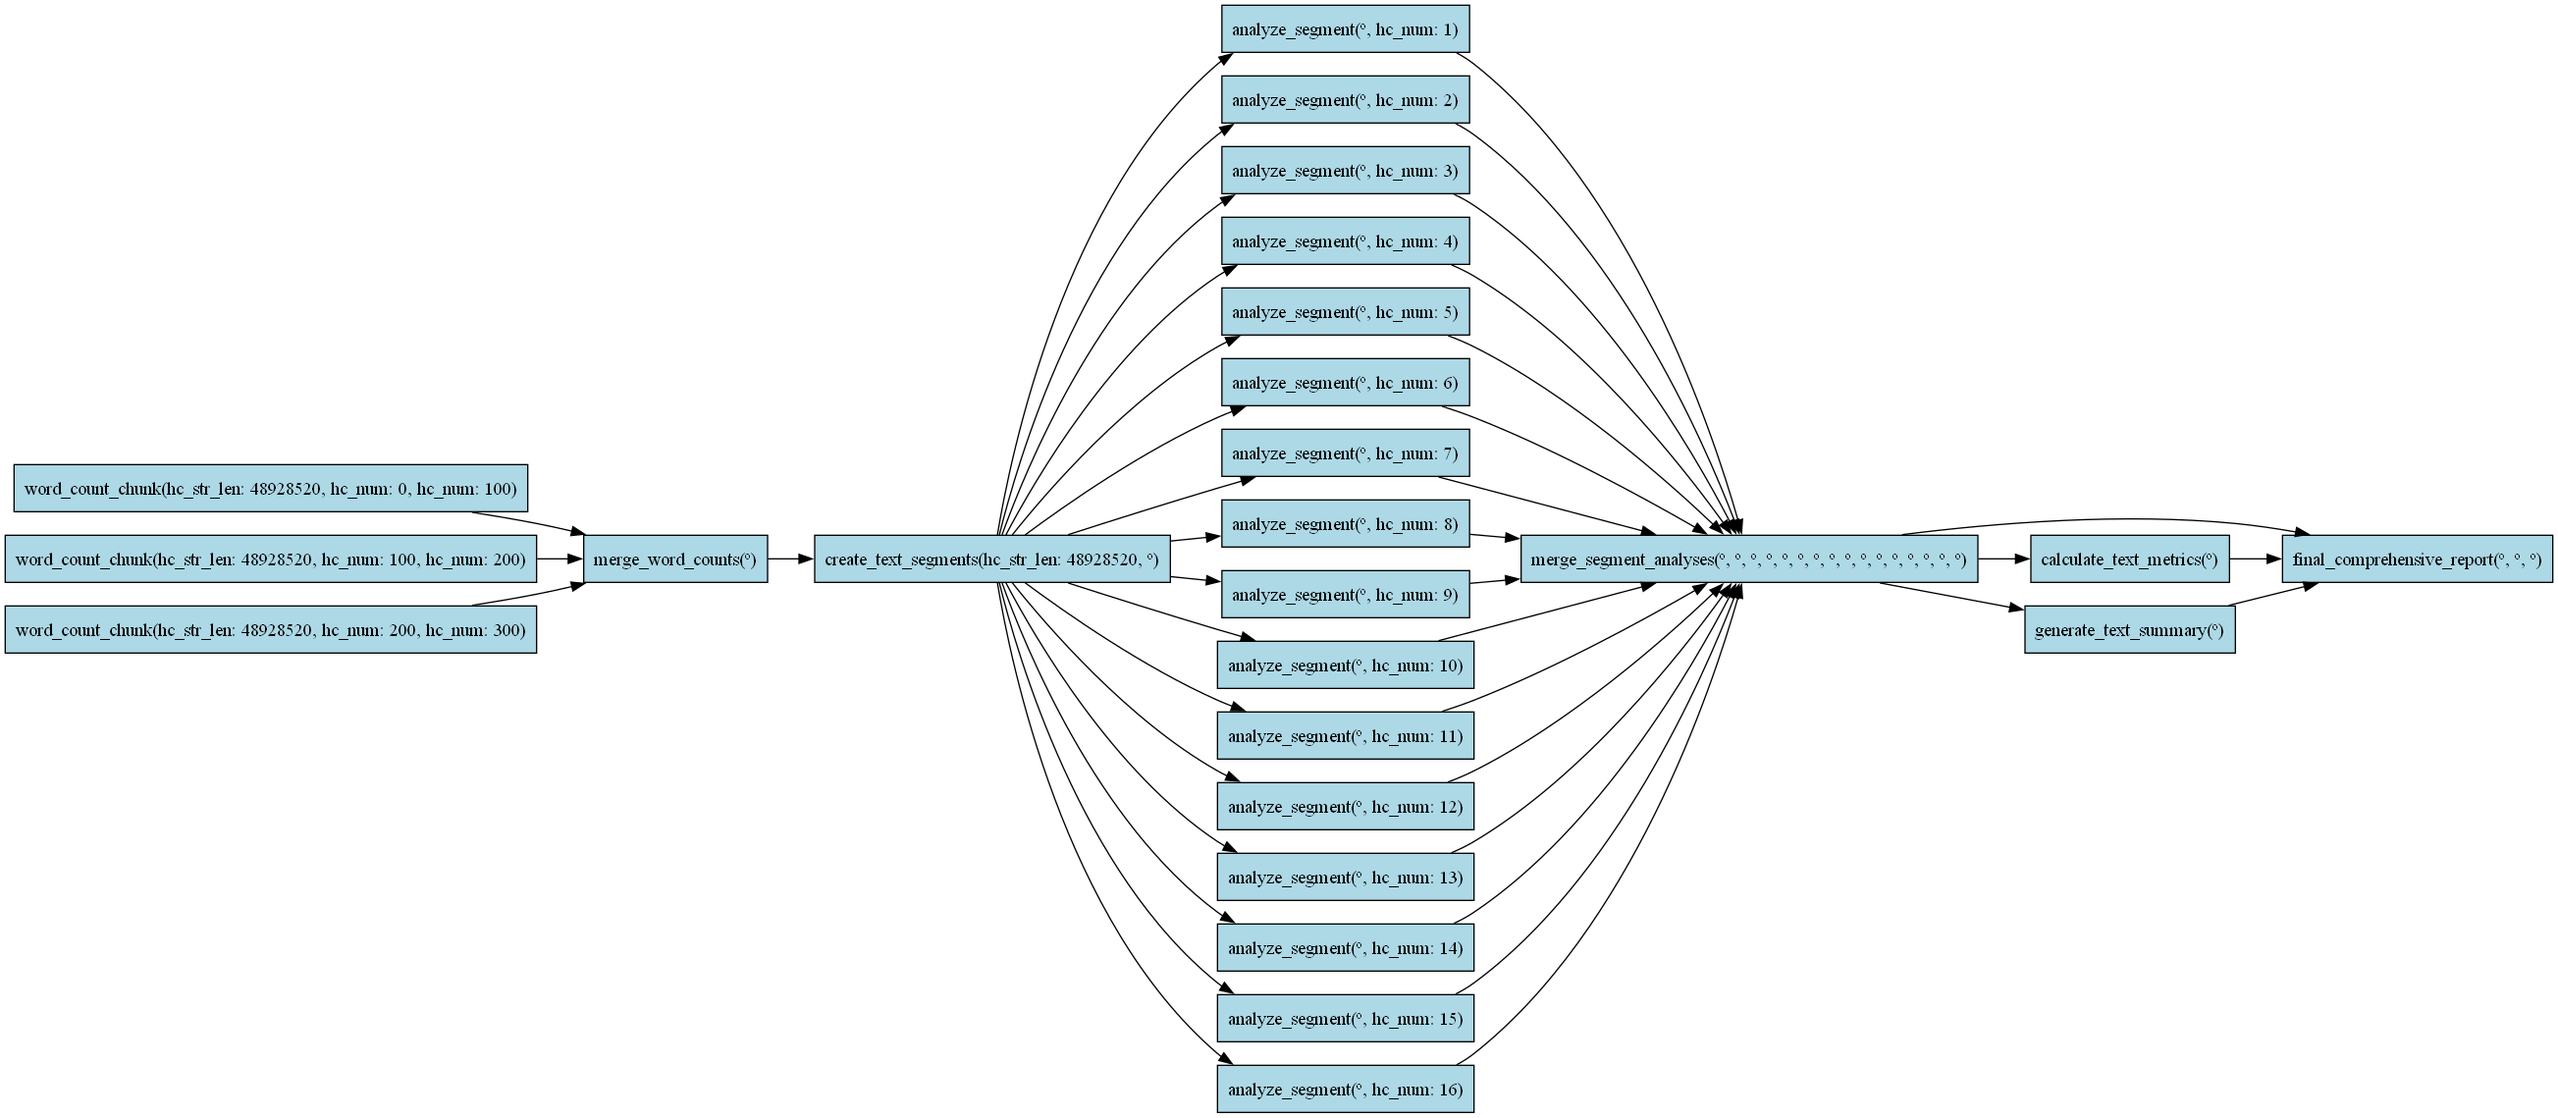
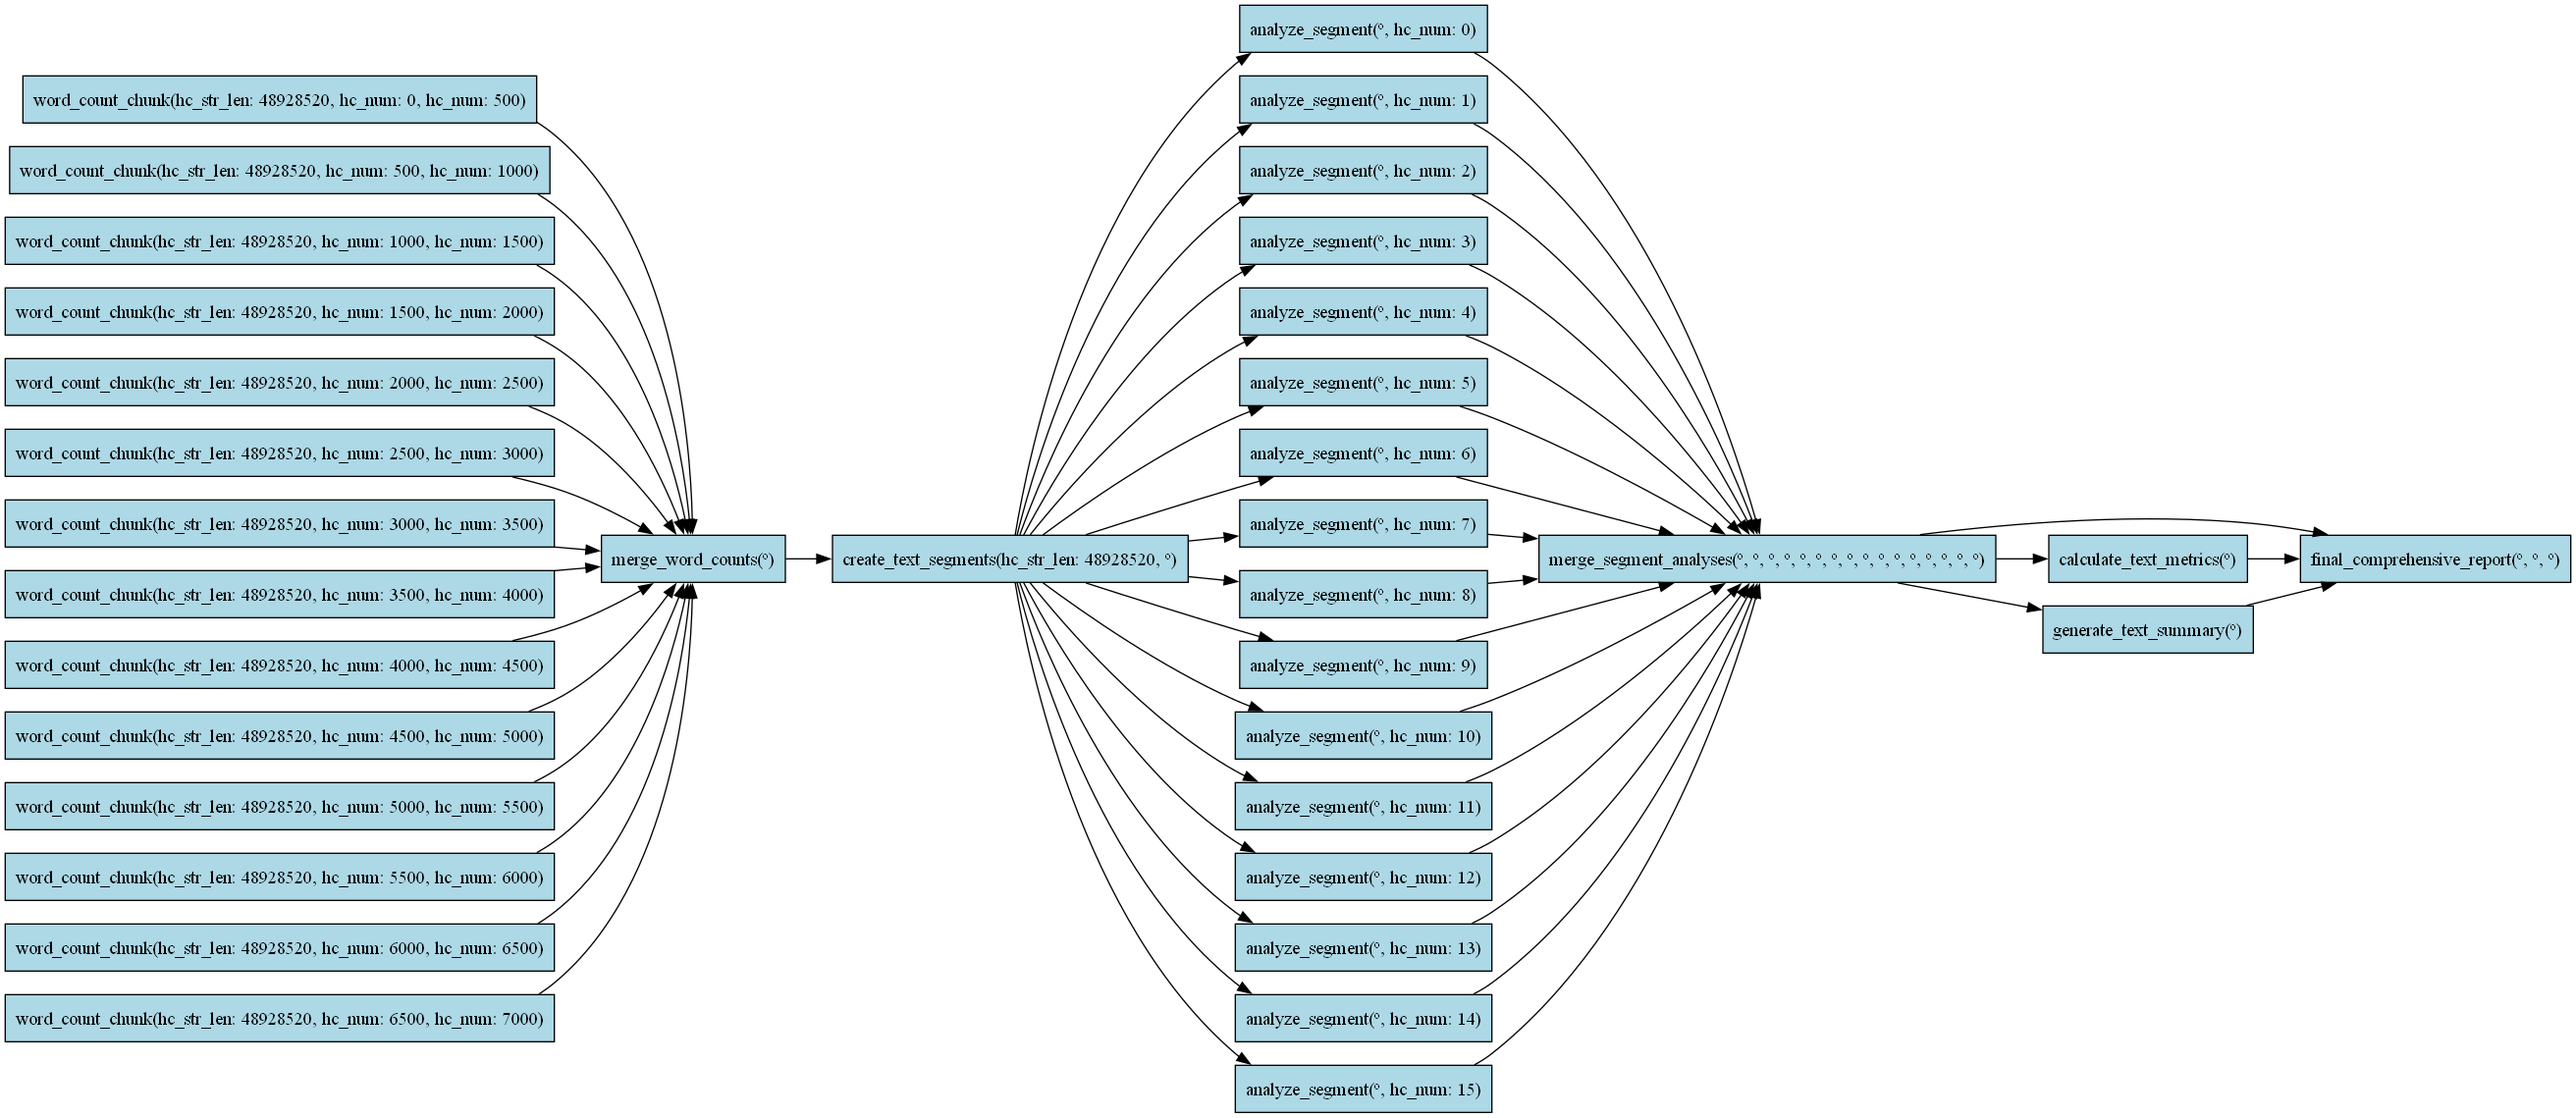
update text analysis workflow

Changed region(s): [[0.0, 0.0, 0.9635, 1.0], [0.7771, 0.5531, 0.8703, 0.5838]]

diff --git a/_examples/original/text_analysis.py b/_examples/original/text_analysis.py
@@ -1,7 +1,6 @@
 import os
 import sys
 import time
-from collections import Counter
 from typing import List, Dict, Any
 
 # Add parent directory to path
@@ -32,22 +31,22 @@ def merge_word_counts(counts: List[int]) -> int:
 # --- Single processing task that creates intermediate result ---
 
 @DAGTask
-def create_text_segments(text: str, total_word_count: int) -> Dict[str, str]:
+def create_text_segments(text: str, total_word_count: int) -> List[str]:
     """Create 16 text segments for further analysis"""
     words = text.split()
     segment_size = len(words) // 16
-    
-    segments = {}
+
+    segments = []
     for i in range(16):
         start_idx = i * segment_size
         end_idx = len(words) if i == 15 else (i + 1) * segment_size
-        segments[f"segment_{i+1}"] = " ".join(words[start_idx:end_idx])
+        segments.append(" ".join(words[start_idx:end_idx]))
     return segments
 
 
 @DAGTask
-def analyze_segment(segments_data: Dict[str, str], segment_id: int) -> Dict[str, Any]:
-    text = segments_data[f"segment_{segment_id}"]
+def analyze_segment(segments: List[str], segment_id: int) -> Dict[str, Any]:
+    text = segments[segment_id]
     words = text.split()
     return {
         "word_count": len(words),
@@ -112,16 +111,23 @@ input_file = "../_inputs/shakespeare.txt"
 text = _read_file(input_file)
 
 # Initial fan-out group (3 word count tasks)
-wc1 = word_count_chunk(text, 0, 100)
-wc2 = word_count_chunk(text, 100, 200)
-wc3 = word_count_chunk(text, 200, 300)
-total_wc = merge_word_counts([wc1, wc2, wc3])
+chunk_size = 500
+num_chunks = 14
+word_counts = []
+
+for i in range(num_chunks):
+    start = i * chunk_size
+    end = (i + 1) * chunk_size
+    wc = word_count_chunk(text, start, end)
+    word_counts.append(wc)
+
+total_wc = merge_word_counts(word_counts)
 
 # Single task that prepares data for middle fan-out
 segments_data = create_text_segments(text, total_wc)
 
 # MIDDLE FAN-OUT: generate 16 analyses in a loop
-segment_analyses = [analyze_segment(segments_data, i + 1) for i in range(16)]
+segment_analyses = [analyze_segment(segments_data, i) for i in range(16)]
 
 # Fan-in: Merge all 16 segment analyses
 merged_analysis = merge_segment_analyses(*segment_analyses)
@@ -130,13 +136,11 @@ merged_analysis = merge_segment_analyses(*segment_analyses)
 metrics = calculate_text_metrics(merged_analysis)
 summary = generate_text_summary(merged_analysis)
 
-# Final convergence
 final_report = final_comprehensive_report(metrics, summary, merged_analysis)
 # final_report.visualize_dag(output_file=os.path.join("_dag_visualization", "text_analysis"), open_after=False)
-# exit()
 
 # --- Run workflow ---
 start_time = time.time()
 result = final_report.compute(dag_name="text_analysis", config=WORKER_CONFIG)
-print(f"Result keys: {list(result.keys())} | User waited: {time.time() - start_time:.3f}s")
+print(f"Result: {result} | User waited: {time.time() - start_time:.3f}s")
 print(f"Analysis complete - processed {result['detailed_analysis']['total_words']} words in {result['detailed_analysis']['total_segments']} segments")

diff --git a/src/planning/abstract_dag_planner.py b/src/planning/abstract_dag_planner.py
@@ -110,7 +110,7 @@ class AbstractDAGPlanner(ABC, WorkerExecutionLogic):
             self.validate_plan(_dag.root_nodes)
             return None # no plan was made
         else:
-            self._store_plan_image(_dag, plan_result.nodes_info, plan_result.critical_path_node_ids)
+            # self._store_plan_image(_dag, plan_result.nodes_info, plan_result.critical_path_node_ids)
             # self._store_plan_as_json(_dag, plan_result.nodes_info)
             self.validate_plan(_dag.root_nodes)
         # exit() # !!! FOR QUICK TESTING ONLY. REMOVE LATER !!
